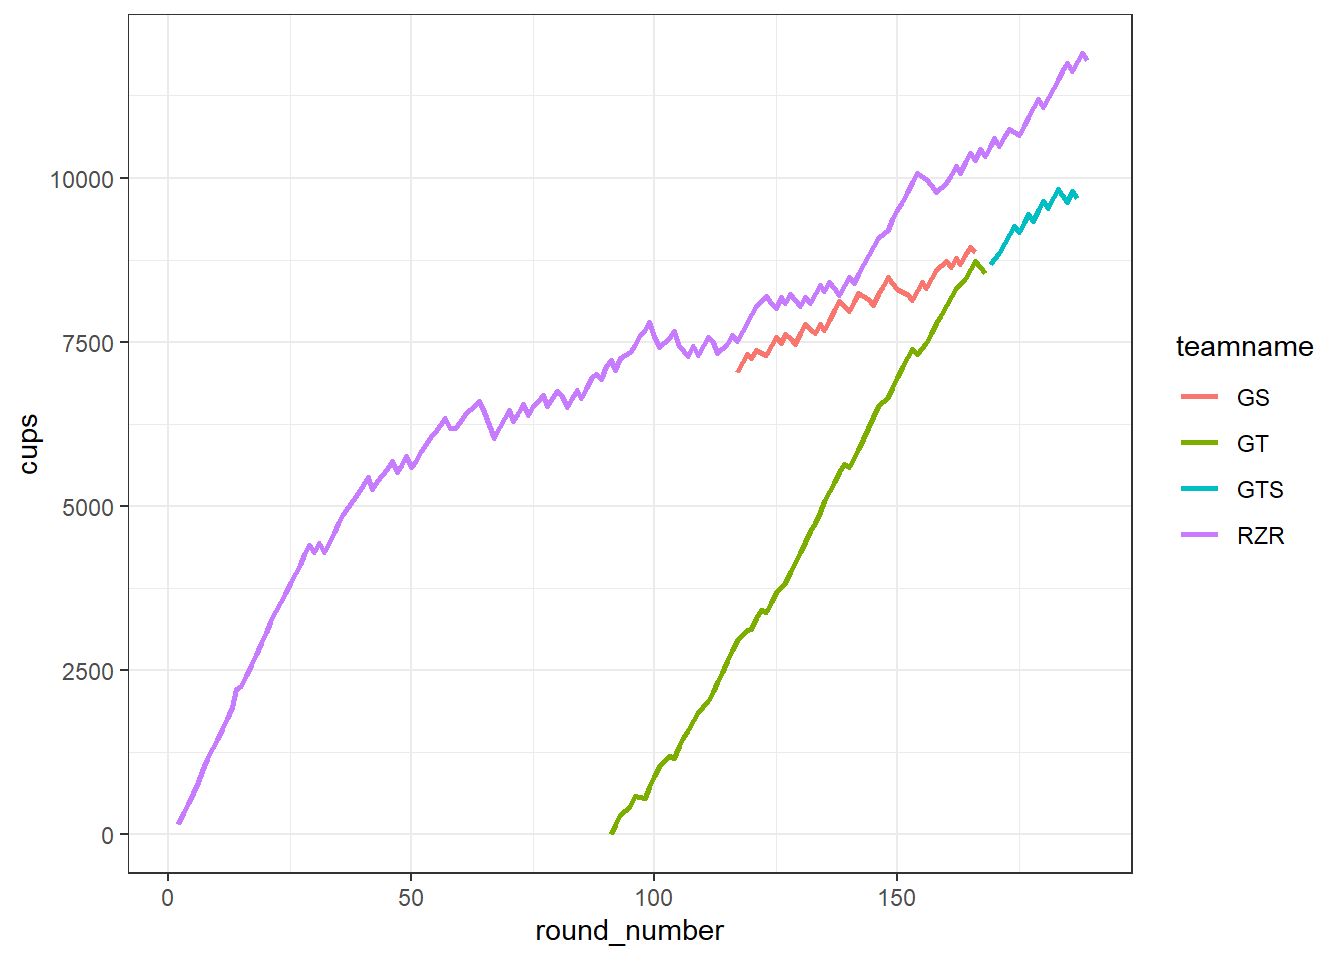
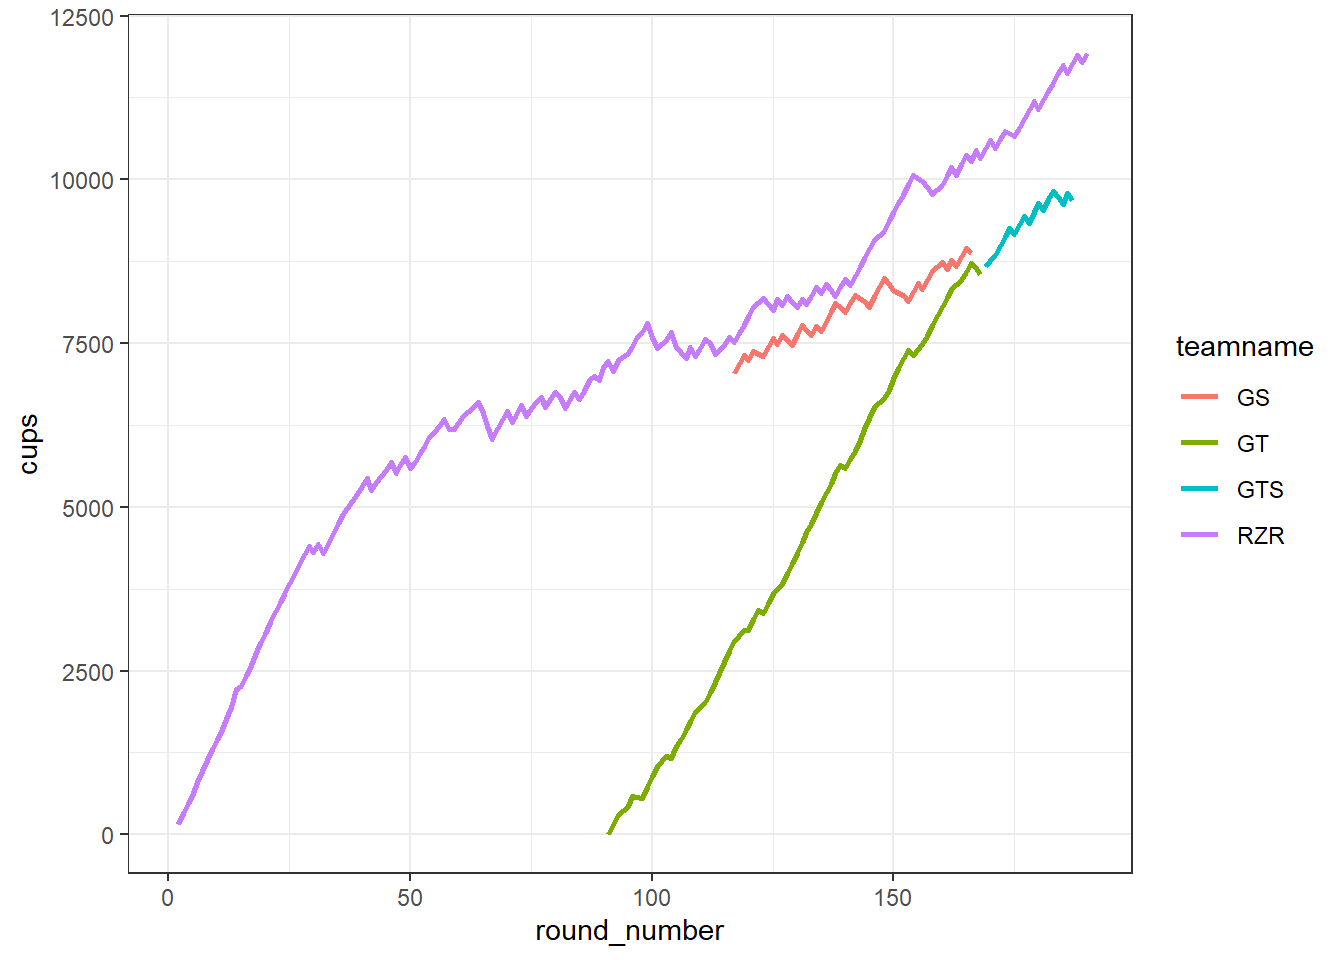
commit from Rstudio

diff --git a/content/RZR/about_RZR.html b/content/RZR/about_RZR.html
@@ -13,7 +13,7 @@ tags:
 
 <p>Zig-Zag RZR is the first team in the Zig-Zag family. RZR was formed (as Zig-Zag Racers) at the end of June 2019 (at the start of the Newfangled vehicles event). It was born from the embers of rizzlaracers, a some time top 30 team brought down by an inactive leader.</p>
 <p>RZR was last recorded as having 11789 cups and being ranked 40 in the world. This measurement was taken going into the match against KGB (patience 2).</p>
-<p>Since formation RZR has played 178 matches, winning 131 of those (a win percentage of 74%). Of their most recent 15 matches RZR have won 11 (a recent win percentage of 73%).</p>
+<p>Since formation RZR has played 179 matches, winning 132 of those (a win percentage of 74%). Of their most recent 15 matches RZR have won 12 (a recent win percentage of 80%).</p>
 <p>Performance data for RZR stored on this <a href="https://docs.google.com/spreadsheets/d/1ftRMXTRL84SO-eedX8EIof8i_5C64qemwskffr8DUXA/edit?usp=sharing">google sheet</a></p>
 <p>The two graphs below show the cup history of RZR. First, the cup progress over time with opposition names:</p>
 <p><img src="/RZR/about_RZR_files/figure-html/unnamed-chunk-3-1.png" width="672" /></p>
@@ -45,22 +45,42 @@ zz_cup_change
 <tbody>
 <tr>
 <td style="text-align:left;">
-patience 2
+patience 3
 </td>
 <td style="text-align:left;">
+NA (cups:NA; rank: NA)
+</td>
+<td style="text-align:right;">
+NA
+</td>
+<td style="text-align:right;">
+NA
+</td>
+<td style="text-align:right;">
+11925
+</td>
+<td style="text-align:right;">
+NA
+</td>
+</tr>
+<tr>
+<td style="text-align:left;font-weight: bold;color: black !important;background-color: lightgreen !important;">
+patience 2
+</td>
+<td style="text-align:left;font-weight: bold;color: black !important;background-color: lightgreen !important;">
 KGB (cups:10572; rank: 63)
 </td>
-<td style="text-align:right;">
-NA
+<td style="text-align:right;font-weight: bold;color: black !important;background-color: lightgreen !important;">
+2769
 </td>
-<td style="text-align:right;">
-NA
+<td style="text-align:right;font-weight: bold;color: black !important;background-color: lightgreen !important;">
+1749
 </td>
-<td style="text-align:right;">
+<td style="text-align:right;font-weight: bold;color: black !important;background-color: lightgreen !important;">
 11789
 </td>
-<td style="text-align:right;">
-NA
+<td style="text-align:right;font-weight: bold;color: black !important;background-color: lightgreen !important;">
+136
 </td>
 </tr>
 <tr>
